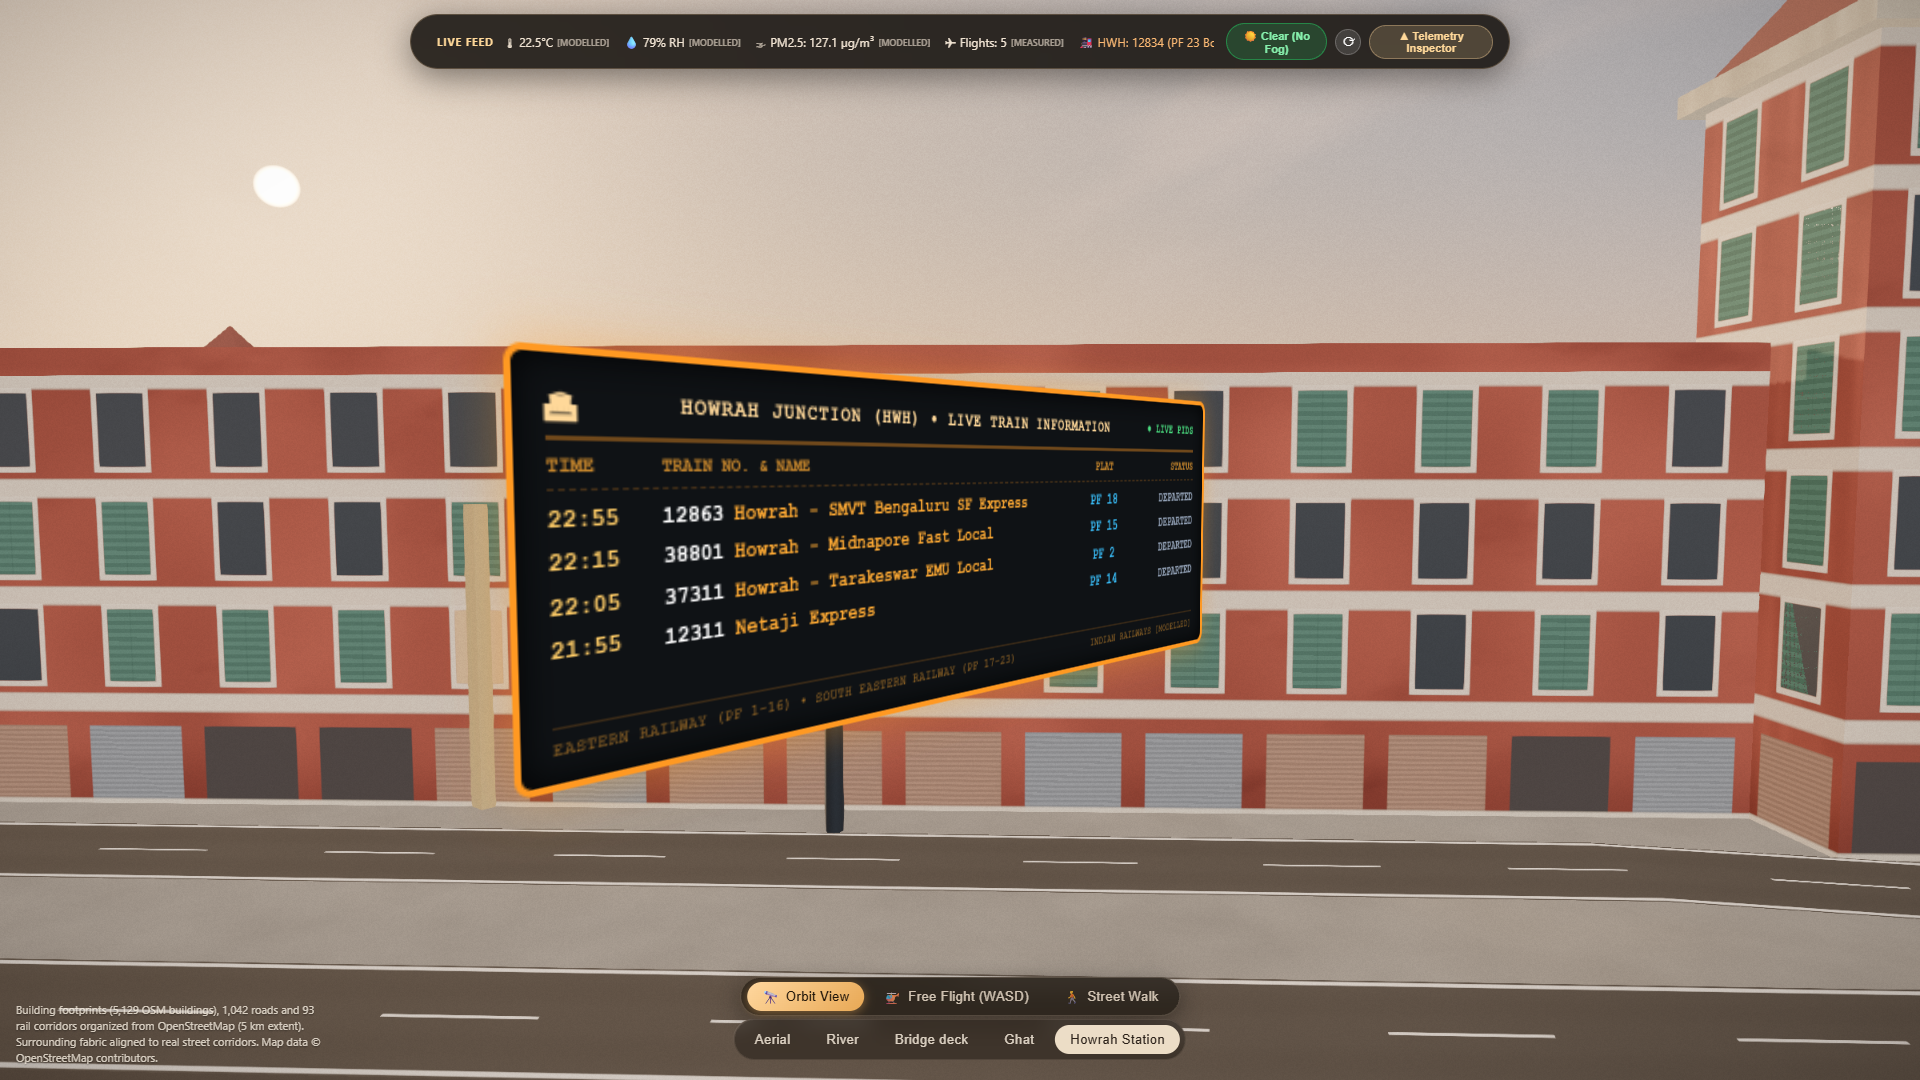
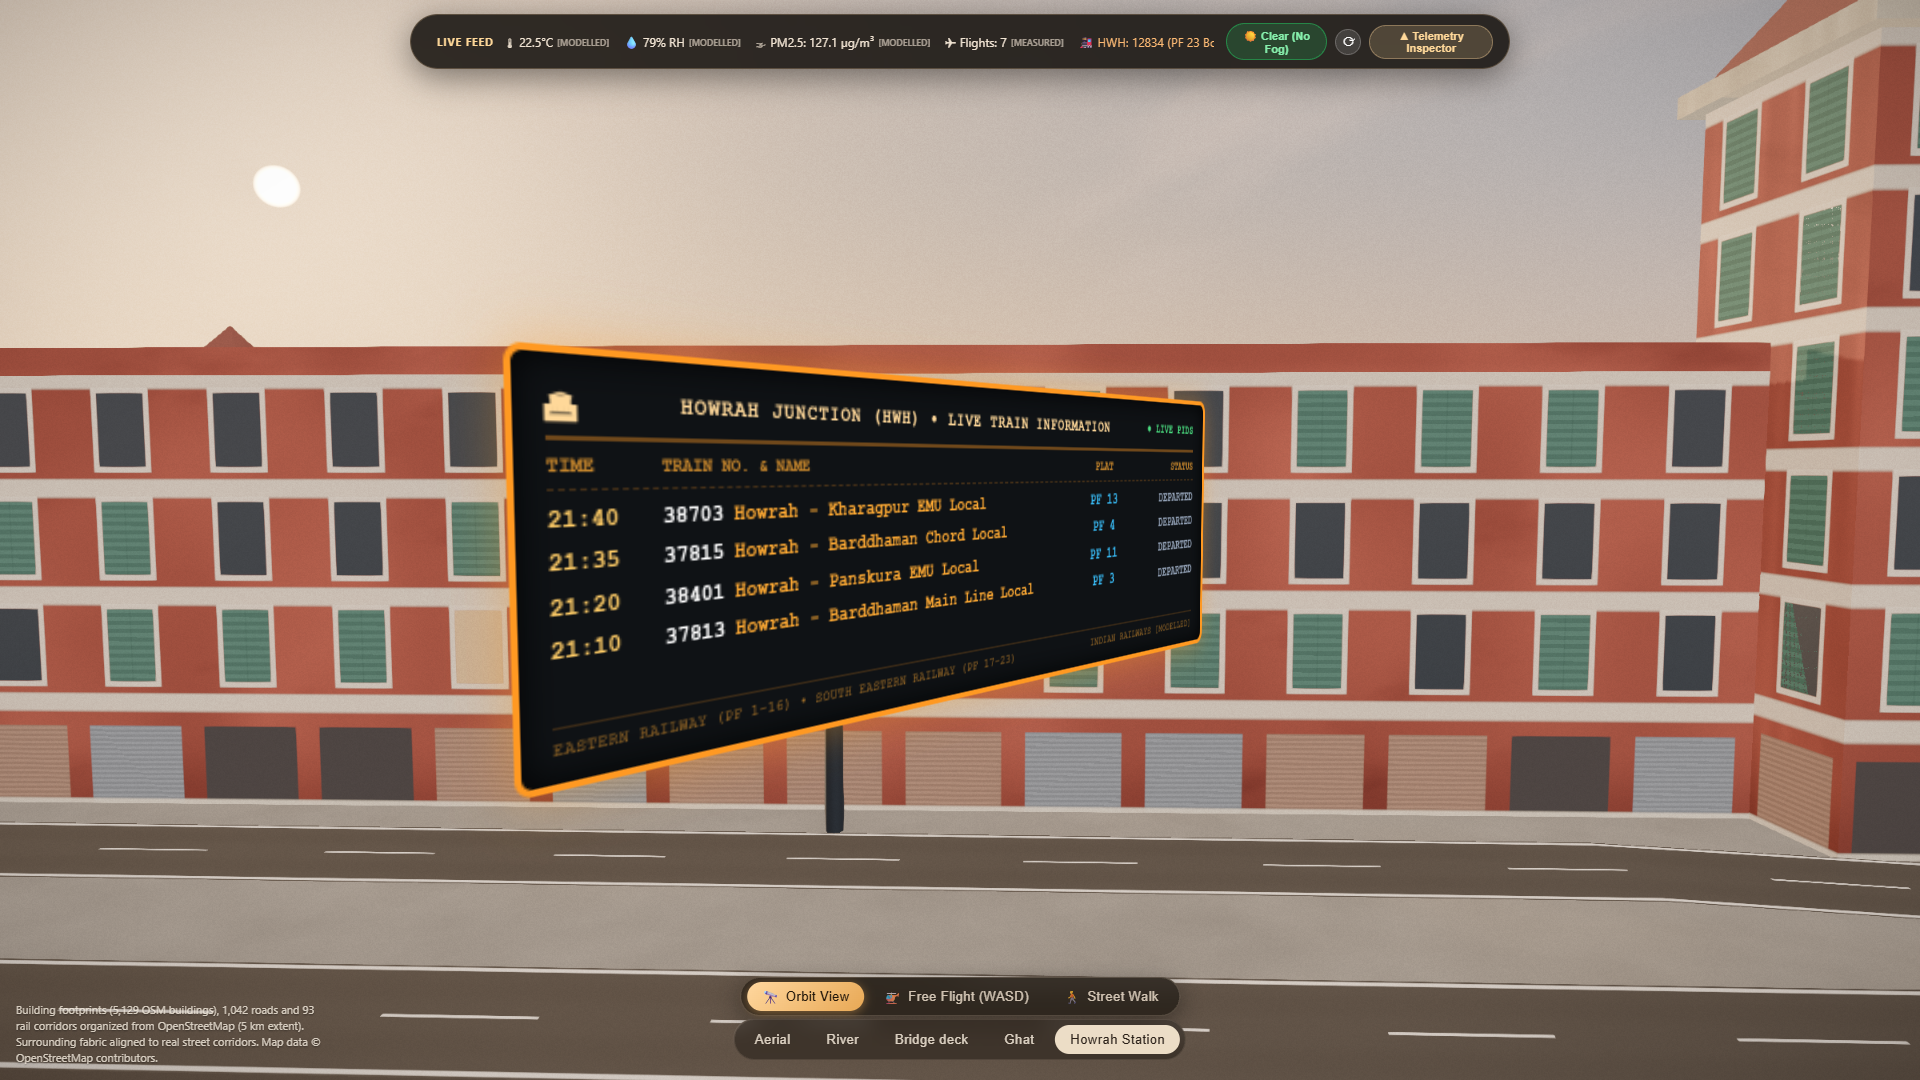
fix: confine context horizon boxes strictly outside mapped city boundary to eliminate blank box intrusion

diff --git a/src/world/Context.tsx b/src/world/Context.tsx
@@ -163,8 +163,8 @@ export function Context({ data }: { data: SceneData }) {
         const cheb = Math.max(Math.abs(jx), Math.abs(jz))
         const dist = Math.hypot(jx, jz)
 
-        // Only populate outside dense mapped boundary or in wide unmapped gaps
-        if (cheb < ext * 0.95 && isNearBuilding(jx, jz, 28)) continue
+        // Strictly outside the mapped city boundary: context is ONLY for the distant horizon skyline beyond the city
+        if (cheb < ext + 15) continue
         if (dist > R) continue
 
         // Thinning at distant horizon
